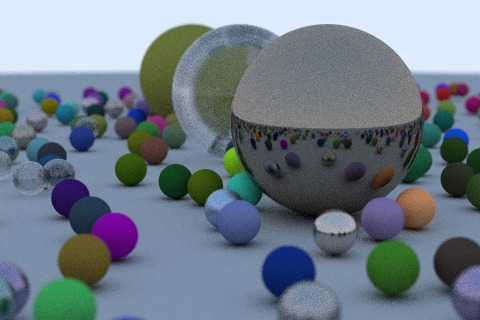
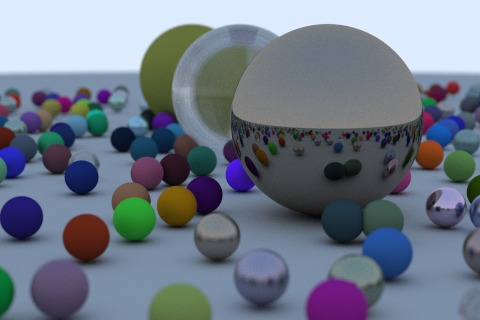
Adding output of one_weekend for 1000 samples

diff --git a/README.md b/README.md
@@ -7,7 +7,17 @@ A ray tracer in rust. Based on Peter Shirley's Ray Tracing in One Weekend.
 
 ## Changelog
 
-### September 21, 2017
+### September 21, 2017 | 1
+
+I posted the link to this repo on [/r/rust](https://www.reddit.com/r/rust/comments/71jp12/my_hello_world_in_rust_a_simple_raytracer_uses/) and folks suggested that I run in release mode (I was running in debug mode the whole time). This significantly improved the runtime. 
+
+There's also a progressbar while rendering/saving now, thanks to [coder543](https://github.com/coder543)'s [Pull Request](https://github.com/ranveeraggarwal/rust-raytracer/pull/1).
+
+A 480x320 image at 1000 samples took around 23 minutes to render.
+
+PS: Hence proved. Rust has an awesome community.
+
+### September 21, 2017 | 0
 
 Multi-threaded implementation using Rayon. 480x320 image at 100 samples took around 46 minutes to render.
 
@@ -17,7 +27,7 @@ Single-threaded implementation complete. 1200x800 image at 10 samples took nearl
 
 ## Status
 
-Currently, it has been run on 504 random spheres at 100 samples.    
+Image generated after running 504 random spheres at 1000 samples.    
 CPU: Intel Xeon E5-1650 v2: 6 cores/12 threads.
 
 ![One Weekend](outputs/one_weekend.jpg "One Weekend")
